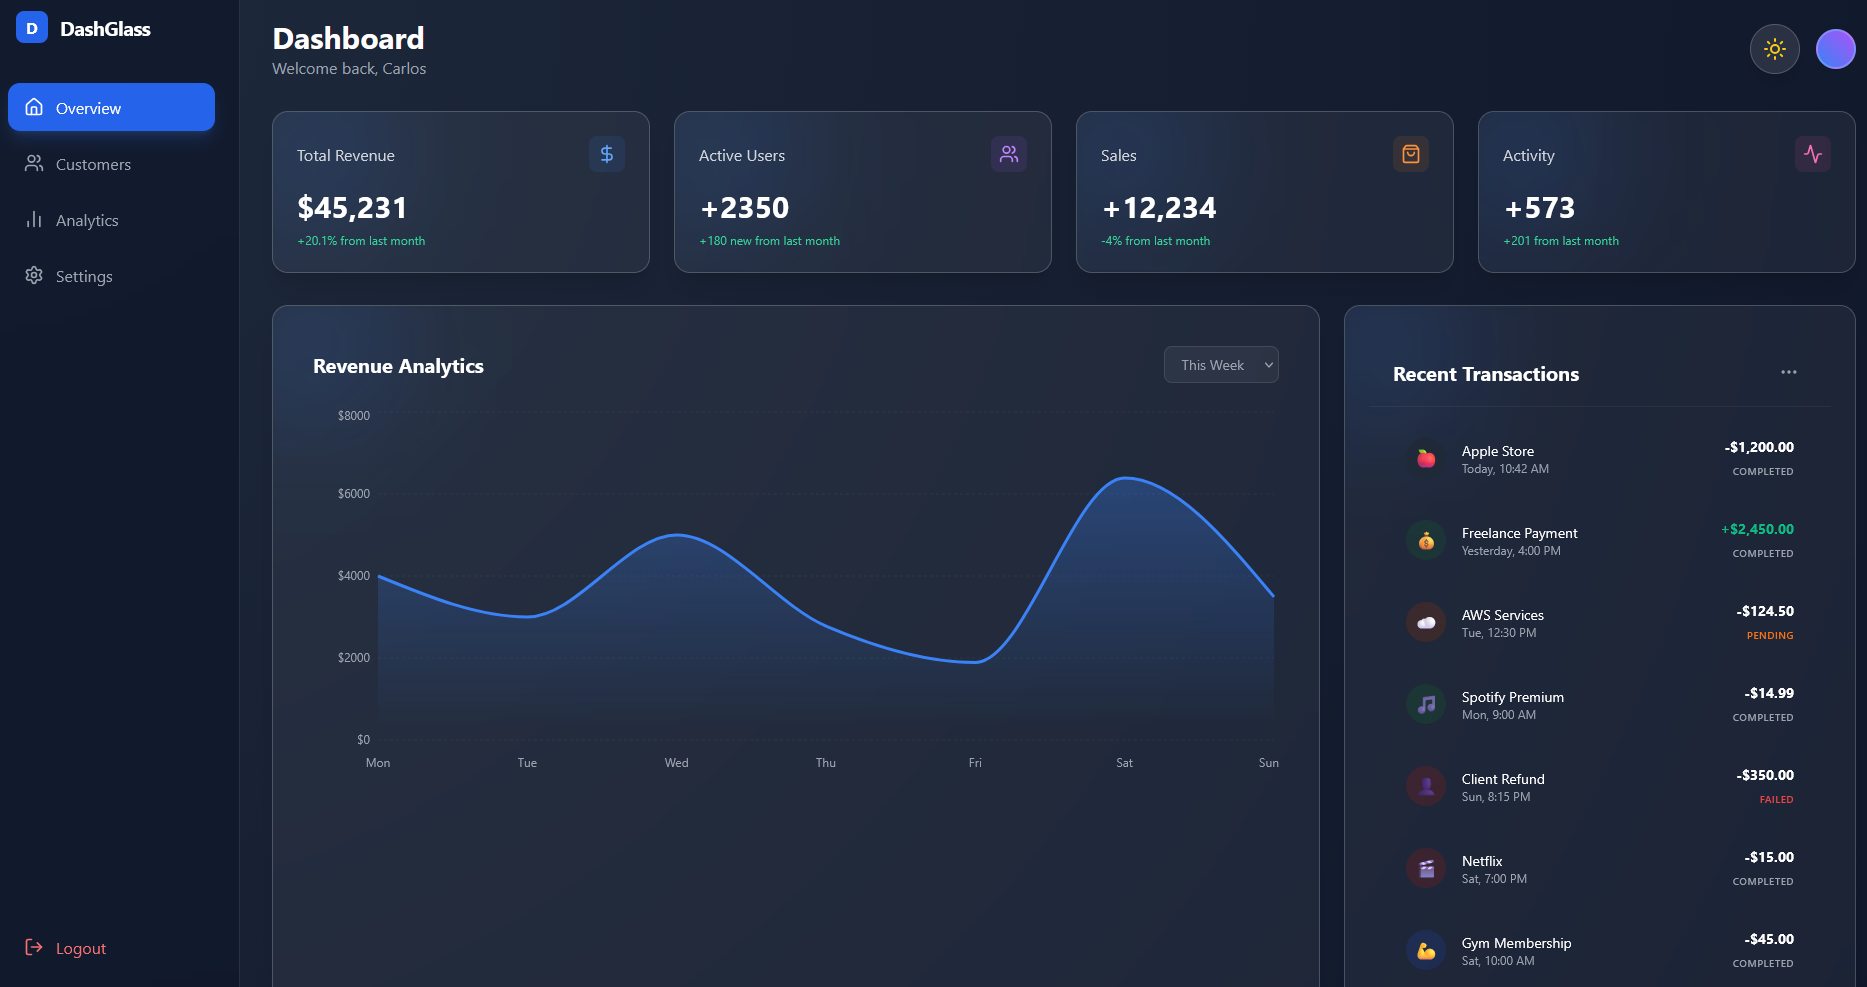
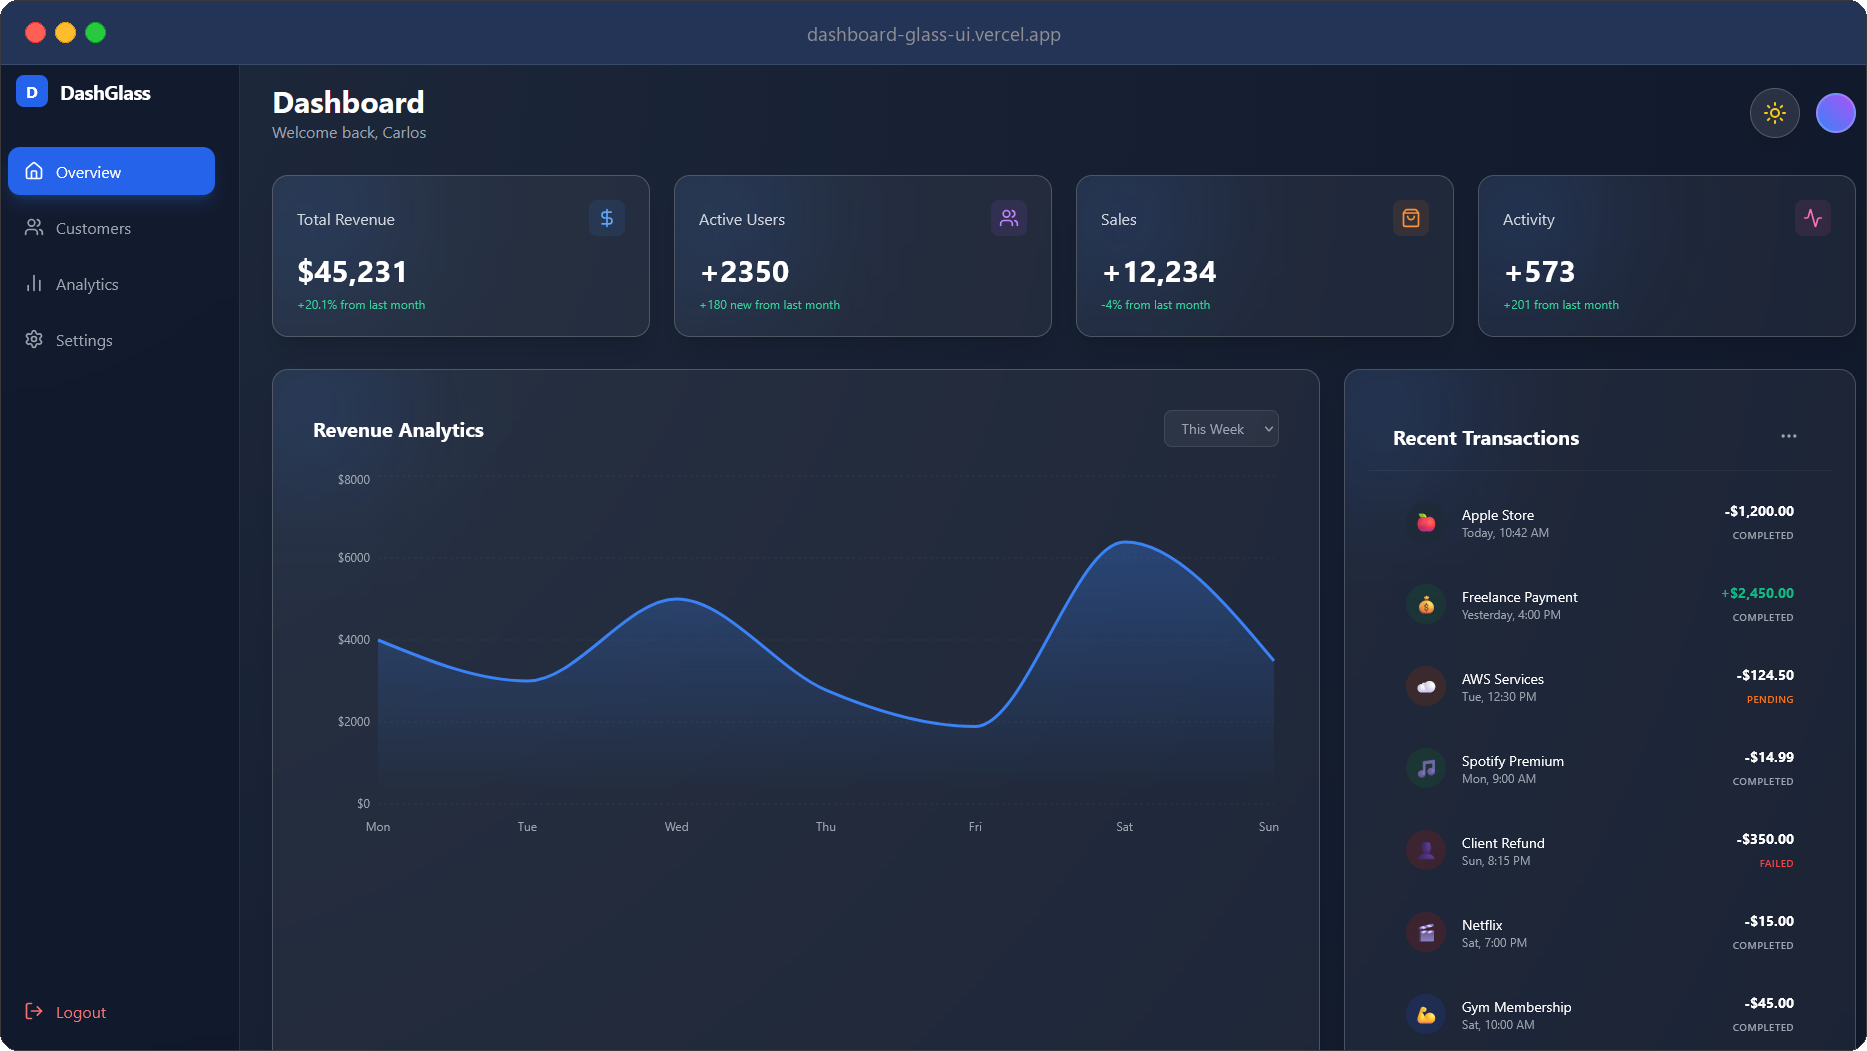
Rewrite README and wrap preview in a macOS window frame

diff --git a/README.md b/README.md
@@ -1,25 +1,56 @@
-# 💎 Glassmorphism Dashboard
+# Glass Dashboard
 
-A modern, responsive dashboard built with React, featuring advanced UX/UI design focused on Glassmorphism effects, smooth animations, and interactive data visualization.
+A dark-first analytics dashboard built with React, Tailwind CSS and Recharts. The interface
+is built on glassmorphism: translucent surfaces over a radial gradient, with a light theme
+you can toggle from the header.
 
-![Dashboard Preview](./preview.png)
+**[Live demo](https://dashboard-glass-ui.vercel.app)**
 
-## 🚀 Live Demo
-[View Live Project on Vercel](https://dashboard-glass-ui.vercel.app/)
+![Dashboard preview](./preview.png)
 
-## ✨ Key Features
-* **🎨 Glassmorphism UI:** Aesthetic design utilizing backdrop blurs, transparencies, and deep gradients.
-* **🌗 Dark/Light Mode:** Dynamic theme switching with instant visual feedback.
-* **📈 Interactive Charts:** Data visualization powered by `recharts` with custom-styled tooltips.
-* **⚡ Smooth Animations:** Premium user experience with fluid transitions using `framer-motion`.
-* **📱 Fully Responsive:** Optimized layout for both desktop and mobile devices.
+## What it does
 
-## 🛠 Tech Stack
-* React + Vite
-* Tailwind CSS (Advanced Styling)
-* Framer Motion (Animations)
-* Recharts (Data Visualization)
-* Lucide React (Icons)
+- Four KPI cards — revenue, users, sales, activity — driven by a single `StatsCard`
+  component with per-card accent colors
+- Revenue area chart built with Recharts, including a custom tooltip
+- Recent transactions list with status badges for completed, pending and failed payments
+- Fixed sidebar with the active section highlighted
+- Theme toggle that swaps the background gradient, text colors and card surfaces
 
----
-Made with ❤ by [Carlos Gordillo](https://github.com/c26200)
+## Stack
+
+React 19 · Vite · Tailwind CSS · Framer Motion · Recharts · Lucide React
+
+## Run locally
+
+```bash
+npm install
+npm run dev
+```
+
+The dev server starts at `http://localhost:5173`. To build:
+
+```bash
+npm run build
+npm run preview
+```
+
+## Structure
+
+```
+src/
+├── components/
+│   ├── GlassCard.jsx          # Reusable translucent surface
+│   ├── Sidebar.jsx
+│   ├── SalesChart.jsx         # Recharts area chart
+│   └── RecentTransactions.jsx
+├── App.jsx                    # Layout, KPI grid and theme state
+└── index.css
+```
+
+## Notes
+
+The dashboard is a frontend exercise. Every figure, chart point and transaction is
+hardcoded inside the components — there is no API, database or authentication behind it.
+The layout is designed for desktop and collapses to a single column below 1024 px; the
+sidebar stays fixed.
